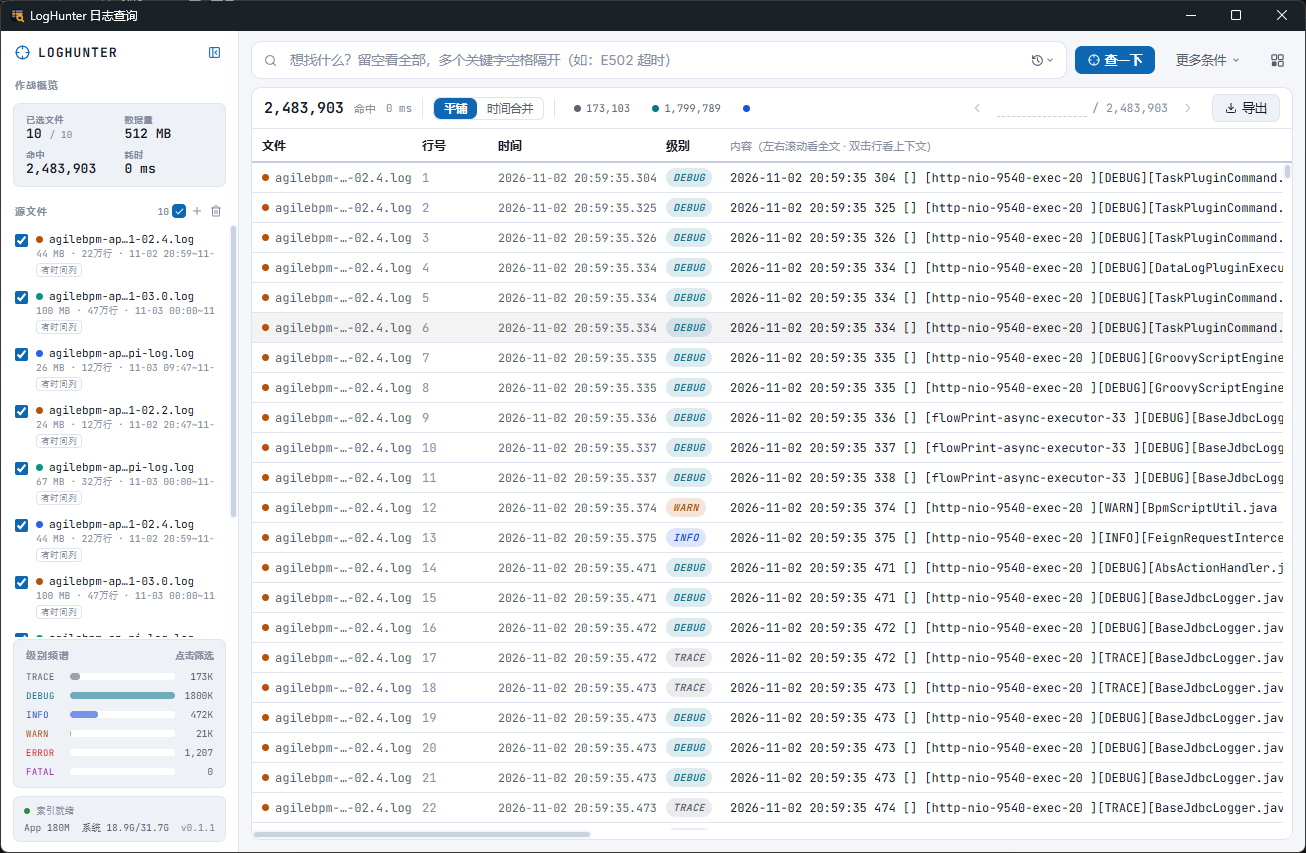
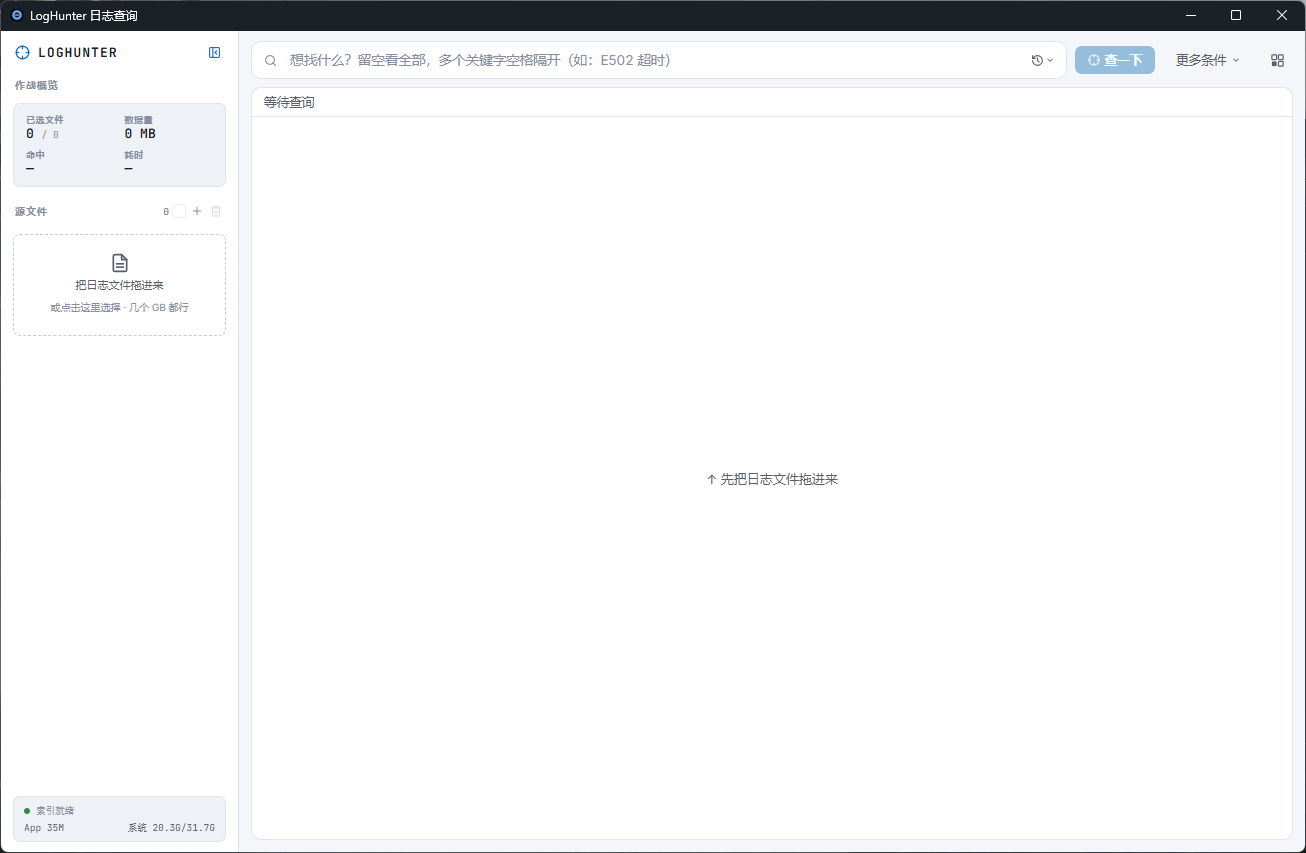
LogHunter - 文档 - v0.3.0 - 更新README展示AI诊断并精简演示素材
主页新增「错误聚类与 AI 诊断」节（诊断会话与设置双截图），功能清单与架构树同步 v0.3.0 能力；移除操作演示动图（3.3MB）与上下文详情截图（信息保留在功能清单），演示素材收敛为首页 + AI 两图，页面更轻。

diff --git a/README.md b/README.md
@@ -7,27 +7,23 @@
 拖拽多个日志文件（支持 GB 级），关键字 / 正则 / 时间范围 / 级别组合查询快速定位问题。
 纯本地运行 · 索引全内存 · 不落盘 · 零残留
 
-[下载最新版](https://github.com/macaoyxx/log-hunter/releases/latest) · [为什么快](#为什么用-loghunter) · [操作演示](#操作演示)
+[下载最新版](https://github.com/macaoyxx/log-hunter/releases/latest) · [为什么快](#为什么用-loghunter) · [AI 诊断](#错误聚类与-ai-诊断)
 
 ![首页](docs/assets/product/home.png)
 
 </div>
 
-## 操作演示
+## 错误聚类与 AI 诊断
 
-<p>
-  <picture>
-    <source srcset="docs/assets/product/demo.png" media="(prefers-reduced-motion: reduce)">
-    <img src="docs/assets/product/demo.gif" alt="操作演示（约 3.3MB，加载中请稍候）" loading="lazy">
-  </picture>
-</p>
-<sub>△ 演示动图约 3.3 MB，弱网加载需数秒——空白即正在加载</sub>
+**本地错误聚类**（无 AI、确定性）：一键把当前结果集按行模板归一分组——「错误有几种、各多少条、代表行长什么样」一眼看清，点组/样本行直接跳回结果表。
 
-## 上下文详情
+**内置日志分析专家**（opt-in）：配置任意 OpenAI 兼容端点（DeepSeek / GLM / Ollama / 自建网关，主对话与视觉模型可跨厂商组合）后，专家基于聚类摘要自主取证（搜索/读上下文/看时间分布），给出带行号引用的根因假设——引用可点击回查、取证过程可见、**不瞎编**。多轮追问、贴图（视觉模型转述可核对）、拖入文件/文件夹作路径附件（AI 读源码需你的授权，敏感文件逐次确认）。
 
-双击任意行查看前后上下文，目标行自动居中高亮，支持 5 色格式标记：
+![AI 诊断](docs/assets/product/ai.png)
 
-![详情面板](docs/assets/product/context.png)
+厂商与模型能力（上下文窗口 / 视觉 / 响应上限）在设置中管理，拉取模型自动预填能力表；会话顶栏随时切换厂商/模型/思考等级续聊：
+
+![AI 设置](docs/assets/product/ai-setting.png)
 
 ## 为什么用 LogHunter
 
@@ -78,6 +74,16 @@
 
 - **应用内自动更新**：菜单检查到新版本后可一键「自动更新」——确认弹框 → 下载（进度条）→ sha256 完整性校验 → 自动替换本程序 → 选择立即/稍后重启；也可随时手动下载发布包（历史版本无校验文件时自动跳过校验，兼容过渡）
 - **启动即就绪**：隐藏启动消除空窗期（界面就绪才显示窗口）；启动耗时埋点写 `data/startup.log`（关于弹窗可见），供排查慢启动（未签名 exe 可能被杀毒实时扫描拖慢，可加排除项）
+
+### 错误聚类
+- **本地聚类**（无 AI、确定性）：当前结果集按行模板归一分组（时间戳/数字/GUID/IP → 占位符），组列表展示模板/计数/级别/时间范围/占比；点组或样本行跳转联动结果表；>10 万行均匀采样并标注口径
+
+### AI 诊断（opt-in）
+- **内置日志分析专家（自主 Agent）**：专家 system prompt 内置证据纪律——根因假设按置信度排序（附支持/反对证据），全程【事实】【推断】【待验证】三态标注；引用双口径可校验：`[行 N]` 跳结果表、`[文件名:行号]` 开上下文面板，编造的引用越界标红
+- **自主取证**（function calling 循环，只读影子查询不破坏你的结果集）：search / get_context / get_line / histogram / cluster；取证时间线默认收起、进行中步骤动态可辨，展开看每步参数与返回
+- **源码读取授权（human-in-the-loop）**：AI 请求读源码/文档时弹授权卡（允许并记住 / 仅本次 / 拒绝，目录授权整棵子树有效）；yml/env/json/密钥类敏感文件逐文件逐次授权；拖入文件/文件夹到输入框 = 路径附件（不进左侧日志列表）
+- **多厂商档案 + 会话内切模型**：N 个 OpenAI 兼容端点档案，主对话与视觉模型跨厂商组合；模型级 ctx/vision/maxOut 能力配置（常见模型自动预填）；会话顶栏随时切换续聊；贴图走视觉模型转述（只忠实提取、转述可折叠核对）
+- **产出受控**：write_doc 仅在明确要求时落本次会话报告目录；AI 配置存独立 data/ai.json，不配置不启用，纯本地产品定位不变
 
 ### 界面
 - **昼夜主题**：右上角 🌗/☀/🌙 三态切换——自动（跟随系统，默认并记忆选择）/ 日间（暖白纸感）/ 夜巡（碳黑观测台）；切换 250ms 背光过渡，窗框颜色随系统；表面四级层级 + 信号色板，浮层与徽章在两主题下均清晰可辨
@@ -139,8 +145,12 @@ frontend/src/              Vue 3 界面
 ├── QueryBar.vue           搜索框+筛选链+高级条件+正则模板库+历史+时间快捷段
 ├── ResultTable.vue        表头+单行横向滚动+虚拟滚动（槽位复用）+分段+逐条导航
 ├── ContextPanel.vue       右侧上下文面板（全文、高亮、复制本行/全部、目标居中）
+├── ClusterPanel.vue       错误聚类面板（模板分组/占比/跳转联动）
+├── AiPanel.vue            AI 专家会话面板（流式/取证时间线/授权卡/追问）
+├── AiSettings.vue         AI 设置（厂商主从双栏/模型能力/目录授权）
 ├── HighlightText.vue      分段高亮组件（防 HTML 注入）
 └── TimePicker.vue         自绘日期时间选择器
+internal/ai/               AI 诊断（纯库分层：client 协议 / conf 配置 / diag 编排）
 cmd/logscan-bench/         性能验收基准（生成 1GB 混合日志并计时）
 cmd/stress-bench/          压力基准（20GB 双模式：单文件/10 文件，全环节耗时+内存采样）
 tools/packzip/             跨平台 zip 压缩工具（发版脚本用，Go 标准库）
@@ -166,7 +176,7 @@ wails dev                # 开发模式（热更新）
 go test ./internal/...   # 核心包单测
 go run ./cmd/logscan-bench -size 1024   # 性能基准（生成 1GB 日志并计时）
 go run ./cmd/stress-bench -mode multi   # 压力基准（20GB 双模式，耗时+内存采样）
-go run ./tools/genicon   # 重新生成应用图标（build/appicon.png + icon.ico）
+go run ./tools/genicon   # 重新生成应用图标（build/appicon.png + icon.ico + frontend 资产同源）
 ./scripts/package.sh 0.0.5   # 仅本地打包（release/<版本>/ 下产出 zip，临时文件自动清理）
 ./scripts/publish.sh 0.0.5   # 发布：先本地打包，确认后推 tag + GitHub Release（需 gh CLI，未装则给手动上传指引）
 ```
